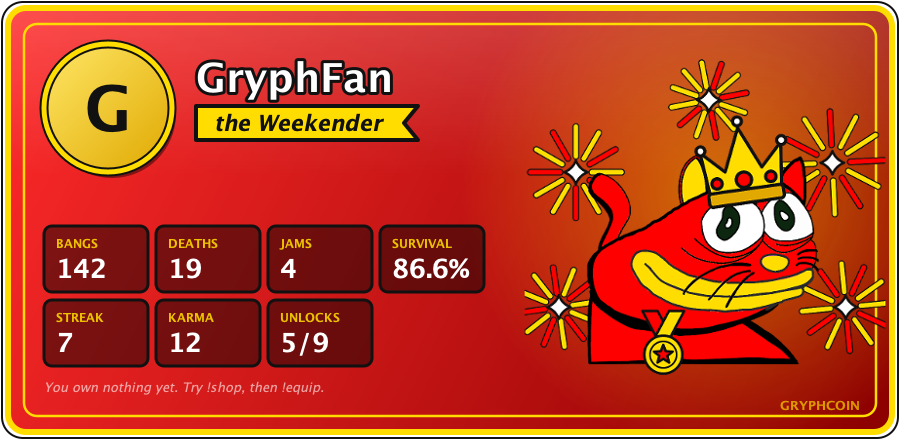
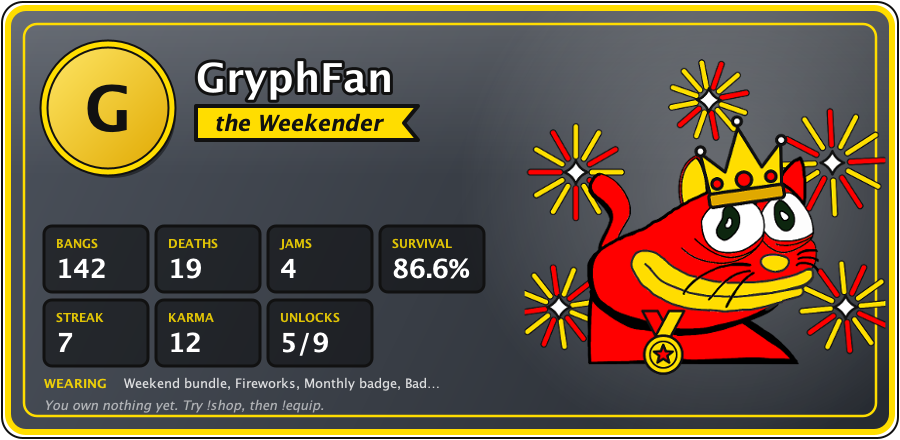
Neutral profile card, wearing line; remove all loss caps
Profile card: neutral slate background, no GRYPHCOIN tag, a WEARING line
naming equipped items, and stat values that shrink to fit so survival
no longer clips.

Games: remove the 24 hour loss limit and the per-game stake caps
(blackjack, dice, higher or lower, duels). Blackjack now warns when a
stake is more than half the player's balance. Paid play opt-out stays.
Update help, testing guide and PR screenshots.

diff --git a/src/command/util/misc/ProfileCard.java b/src/command/util/misc/ProfileCard.java
@@ -22,7 +22,7 @@ import java.util.ArrayList;
 import java.util.List;
 
 /**
- * Draws the profile card in the server's red and gold. The mascot on the right wears whatever the player has
+ * Draws the profile card on a neutral slate background with gold accents. The mascot on the right wears whatever the player has
  * equipped, so every cosmetic is visible as art. Everything is drawn with shapes and the bundled mascot, so the
  * card looks the same on any machine.
  */
@@ -225,8 +225,8 @@ public final class ProfileCard {
     private static void drawBase(Graphics2D g, Cosmetics.Loadout l, int height) {
         boolean bundle = l.has("bundle-weekend");
         boolean glow = l.has("flair-day");
-        Color top = bundle ? new Color(0xFF2A2A) : new Color(0xA30000);
-        Color bottom = bundle ? new Color(0x8A0000) : new Color(0x2E0000);
+        Color top = bundle ? new Color(0x4C525C) : new Color(0x3A3F47);
+        Color bottom = bundle ? new Color(0x262A30) : new Color(0x14161A);
         Shape card = new RoundRectangle2D.Float(8, 8, WIDTH - 16, height - 16, 36, 36);
 
         g.setPaint(new GradientPaint(0, 0, top, WIDTH, height, bottom));
@@ -236,7 +236,7 @@ public final class ProfileCard {
         g.fillRect(0, 0, WIDTH, height);
         // soft spotlight behind the mascot
         g.setPaint(new java.awt.RadialGradientPaint(720, 190, 260, new float[]{0f, 1f},
-                new Color[]{new Color(255, 221, 0, 120), new Color(255, 221, 0, 0)}));
+                new Color[]{new Color(255, 255, 255, 70), new Color(255, 255, 255, 0)}));
         g.fillRect(440, 0, 460, HEIGHT);
         g.setClip(null);
 
@@ -267,11 +267,20 @@ public final class ProfileCard {
         drawNameBlock(g, s, l, 196);
         drawStats(g, s, 44, 226);
         drawInventory(g, pills, l, 44, HEIGHT - 24);
+        drawWearing(g, l, 44, 388);
+    }
 
+    /** One line naming what the mascot has on, so the art is never a guessing game. */
+    private static void drawWearing(Graphics2D g, Cosmetics.Loadout l, int x, int y) {
+        if (l.codes.isEmpty()) return;
+        List<String> names = new ArrayList<>();
+        for (String code : l.codes) names.add(Cosmetics.label(code));
         g.setFont(new Font("SansSerif", Font.BOLD, 13));
-        g.setColor(new Color(255, 221, 0, 170));
-        String tag = "GRYPHCOIN";
-        g.drawString(tag, WIDTH - 40 - g.getFontMetrics().stringWidth(tag), height - 30);
+        g.setColor(new Color(255, 221, 0, 230));
+        g.drawString("WEARING", x, y);
+        g.setFont(new Font("SansSerif", Font.PLAIN, 13));
+        g.setColor(new Color(255, 255, 255, 210));
+        g.drawString(fit(g, String.join(", ", names), 400 - 80), x + 80, y);
     }
 
     private static void drawAvatar(Graphics2D g, Stats s, int x, int y, int size) {
@@ -378,7 +387,13 @@ public final class ProfileCard {
             g.setFont(new Font("SansSerif", Font.BOLD, 12));
             g.setColor(new Color(255, 221, 0, 220));
             g.drawString(cells[i][0], cx + 12, cy + 22);
-            g.setFont(new Font("SansSerif", Font.BOLD, 26));
+            Font value = new Font("SansSerif", Font.BOLD, 26);
+            g.setFont(value);
+            // shrink until the value fits inside the box, so "100.0%" never clips
+            while (g.getFontMetrics().stringWidth(cells[i][1]) > cellW - 20 && value.getSize() > 12) {
+                value = value.deriveFont((float) value.getSize() - 1);
+                g.setFont(value);
+            }
             g.setColor(Color.WHITE);
             g.drawString(cells[i][1], cx + 12, cy + 52);
         }
@@ -479,7 +494,7 @@ public final class ProfileCard {
         if (pills.isEmpty()) {
             g.setFont(new Font("SansSerif", Font.ITALIC, 13));
             g.setColor(new Color(255, 255, 255, 150));
-            g.drawString("You own nothing yet. Try !shop, then !equip.", x, HEIGHT - 48);
+            g.drawString("You own nothing yet. Try !shop, then !equip.", x, HEIGHT - 30);
             return;
         }
         g.setFont(new Font("SansSerif", Font.BOLD, 13));

diff --git a/src/economy/WagerLimits.java b/src/economy/WagerLimits.java
@@ -7,15 +7,10 @@ import java.sql.ResultSet;
 import java.sql.SQLException;
 
 /**
- * Responsible-play guards shared by every paid game: a per-account opt-out and
- * a cap on how much a player can lose in a rolling 24 hours.
+ * Responsible-play guards shared by every paid game: a per-account opt-out.
+ * There is no cap on losses; the games warn about large stakes instead.
  */
 public final class WagerLimits {
-
-    /** Most a player can lose to paid games in 24 hours. */
-    public static final int DAILY_LOSS_CAP = 50;
-
-    private static final long DAY_MS = 24L * 60 * 60 * 1000;
 
     private WagerLimits() { }
 
@@ -43,34 +38,12 @@ public final class WagerLimits {
     }
 
     /**
-     * @return GC lost to paid games in the last 24 hours
-     */
-    public static int lossesToday(long user) throws SQLException {
-        return Database.inTransaction(c -> {
-            try (PreparedStatement ps = c.prepareStatement("SELECT COALESCE(-SUM(delta), 0) FROM economy_ledger "
-                    + "WHERE user = ? AND reason IN ('blackjack', 'duel', 'dice', 'hilo') AND delta < 0 AND created_at >= ?")) {
-                ps.setLong(1, user);
-                ps.setLong(2, System.currentTimeMillis() - DAY_MS);
-                try (ResultSet rs = ps.executeQuery()) {
-                    rs.next();
-                    return rs.getInt(1);
-                }
-            }
-        });
-    }
-
-    /**
      * @return null if the player may stake this amount, otherwise a message
      *         explaining why not
      */
     public static String check(long user, int stake) throws SQLException {
         if (!isPaidPlayEnabled(user)) {
             return "Paid play is turned off for your account. Say `!paidplay on` to turn it back on.";
-        }
-        int lost = lossesToday(user);
-        if (lost + stake > DAILY_LOSS_CAP) {
-            return "That would take you past the " + DAILY_LOSS_CAP + " GC daily loss limit "
-                    + "(you have lost " + lost + " GC in the last 24 hours).";
         }
         return null;
     }

diff --git a/src/command/commands/economy/DuelCommands.java b/src/command/commands/economy/DuelCommands.java
@@ -1,7 +1,6 @@
 package command.commands.economy;
 
 import command.Command;
-import command.commands.blackjack.Bet;
 import duel.Duel;
 import duel.DuelMath;
 import duel.DuelService;
@@ -53,8 +52,7 @@ public final class DuelCommands {
         public void start(MessageReceivedEvent event) {
             String[] args = event.getMessage().getContentRaw().split("\\s+");
             if (event.getMessage().getMentions().getUsers().size() != 1 || args.length < 2 || args.length > 3) {
-                event.getChannel().sendMessage("Say `!duel @user [stake]`. Stake 0-" + Bet.MAX_STAKE
-                        + " GC; leave it off to play free. Winner takes the pot (1 GC fee from 5 GC stakes up).")
+                event.getChannel().sendMessage("Say `!duel @user [stake]`. Stake in GC; leave it off to play free. Winner takes the pot (1 GC fee from 5 GC stakes up).")
                         .queue();
                 return;
             }
@@ -65,8 +63,8 @@ public final class DuelCommands {
                 event.getChannel().sendMessage("The stake must be a whole number.").queue();
                 return;
             }
-            if (stake < 0 || stake > Bet.MAX_STAKE) {
-                event.getChannel().sendMessage("Stakes run from 0 to " + Bet.MAX_STAKE + " GC.").queue();
+            if (stake < 0) {
+                event.getChannel().sendMessage("The stake cannot be negative.").queue();
                 return;
             }
             net.dv8tion.jda.api.entities.User target = event.getMessage().getMentions().getUsers().get(0);

diff --git a/src/command/commands/blackjack/Bet.java b/src/command/commands/blackjack/Bet.java
@@ -19,8 +19,8 @@ import java.util.Collections;
 
 public class Bet extends Command {
 
-    /** Largest blackjack stake allowed. */
-    public static final int MAX_STAKE = 10;
+    /** Stakes above this share of the player's balance get a warning. */
+    static final double WARN_FRACTION = 0.5;
 
     private EconomyConnector ec;
 
@@ -64,6 +64,11 @@ public class Bet extends Command {
             if (blocked != null) {
                 channel.sendMessage(blocked).queue();
                 return;
+            }
+            int spendable = ec.getSpendable(userId);
+            if (betAmount > spendable * WARN_FRACTION && betAmount <= spendable) {
+                channel.sendMessage("\u26A0 Heads up: that is " + Math.round(100.0 * betAmount / spendable)
+                        + "% of your " + spendable + " GC balance. You can lose all of it.").queue();
             }
             channel.sendMessage("Stake: " + betAmount + " GC reserved. Maximum loss: " + betAmount
                     + " GC. Blackjack pays 3:2, a push returns your stake.").queue();
@@ -163,11 +168,6 @@ public class Bet extends Command {
             return false;
         }
 
-        // Stakes are capped at launch
-        if (betAmount > MAX_STAKE) {
-            channel.sendMessage("The maximum stake is " + MAX_STAKE + " GryphCoins.").queue();
-            return false;
-        }
         return true;
     }
 }

diff --git a/src/command/commands/economy/HiLo.java b/src/command/commands/economy/HiLo.java
@@ -1,7 +1,6 @@
 package command.commands.economy;
 
 import command.Command;
-import command.commands.blackjack.Bet;
 import command.util.cards.DeckOfCards;
 import command.util.game.HiLoGame;
 import database.Database;
@@ -37,9 +36,8 @@ public class HiLo extends Command {
         String[] args = event.getMessage().getContentRaw().split("\\s+");
         try {
             int stake = args.length == 2 ? Integer.parseInt(args[1]) : 0;
-            if (stake < 1 || stake > Bet.MAX_STAKE) {
-                event.getChannel().sendMessage("Say `!hilo <stake>` with a stake of 1 to " + Bet.MAX_STAKE
-                        + " GC. Guess `!higher` or `!lower` (ace high, a tie loses). One correct guess pays "
+            if (stake < 1) {
+                event.getChannel().sendMessage("Say `!hilo <stake>` with a stake of at least 1 GC. Guess `!higher` or `!lower` (ace high, a tie loses). One correct guess pays "
                         + "1x your stake and you may `!cashout`; two in a row pay 2x. A wrong guess forfeits the "
                         + "stake.").queue();
                 return;

diff --git a/src/command/commands/economy/Dice.java b/src/command/commands/economy/Dice.java
@@ -1,7 +1,6 @@
 package command.commands.economy;
 
 import command.Command;
-import command.commands.blackjack.Bet;
 import command.util.game.DiceGame;
 import database.Database;
 import economy.EconomyService;
@@ -42,8 +41,8 @@ public class Dice extends Command {
         try {
             if (args.length == 3) {
                 stake = Integer.parseInt(args[2]);
-                if (stake < 1 || stake > Bet.MAX_STAKE) {
-                    event.getChannel().sendMessage("Stakes run from 1 to " + Bet.MAX_STAKE + " GC.").queue();
+                if (stake < 1) {
+                    event.getChannel().sendMessage("The stake must be at least 1 GC.").queue();
                     return;
                 }
                 String blocked = WagerLimits.check(event.getAuthor().getIdLong(), stake);

diff --git a/test/integration/EconomyIntegrationTest.java b/test/integration/EconomyIntegrationTest.java
@@ -208,18 +208,11 @@ public class EconomyIntegrationTest extends DbTestBase {
     }
 
     @Test
-    public void wagerLimitsBlockOptOutAndLossCap() throws Exception {
+    public void wagerLimitsBlockOptOut() throws Exception {
         long u = newUser();
         assertNull(WagerLimits.check(u, 5));
         WagerLimits.setPaidPlay(u, false);
         assertNotNull(WagerLimits.check(u, 5));
         WagerLimits.setPaidPlay(u, true);
-        eco.credit(u, 100, "t", null, "c-" + u);
-        for (int i = 0; i < 5; i++) {
-            eco.reserve(u, 10, "blackjack", null, "r" + i + "-" + u);
-            eco.settleReservation("r" + i + "-" + u, -10, "blackjack");
-        }
-        assertEquals(50, WagerLimits.lossesToday(u));
-        assertNotNull(WagerLimits.check(u, 1));
     }
 }

diff --git a/src/command/commands/Help.java b/src/command/commands/Help.java
@@ -32,7 +32,7 @@ public class Help extends Command {
     public enum Category {
         OVERVIEW("overview", "📖", "Overview", "Start here", new Color(0xF5C542)),
         GAMES("games", "🎲", "Games", "Risk a few coins, or play free", new Color(0xE0457B),
-                new Entry("!bet <1-10>", "Blackjack. Pays 3:2, a tie returns your stake"),
+                new Entry("!bet <amount>", "Blackjack. Pays 3:2, a tie returns your stake"),
                 new Entry("!hit  !stand  !myhand", "Play your blackjack hand"),
                 new Entry("!dice <low|high|seven> [stake]", "Two dice. Leave the stake off to play free"),
                 new Entry("!hilo <stake>", "Higher or Lower. Then !higher, !lower or !cashout"),

diff --git a/src/command/commands/economy/PaidPlay.java b/src/command/commands/economy/PaidPlay.java
@@ -28,8 +28,7 @@ public class PaidPlay extends Command {
                 event.getChannel().sendMessage("Paid play is now **off**. Free play still works.").queue();
             } else if (args.length == 2 && args[1].equalsIgnoreCase("on")) {
                 WagerLimits.setPaidPlay(user, true);
-                event.getChannel().sendMessage("Paid play is now **on**. Daily loss limit: "
-                        + WagerLimits.DAILY_LOSS_CAP + " GC.").queue();
+                event.getChannel().sendMessage("Paid play is now **on**.").queue();
             } else {
                 event.getChannel().sendMessage("Paid play is "
                         + (WagerLimits.isPaidPlayEnabled(user) ? "on" : "off")

diff --git a/src/command/ui/SlashCommands.java b/src/command/ui/SlashCommands.java
@@ -51,7 +51,7 @@ public final class SlashCommands {
     // --- definitions ---------------------------------------------------------------------------------------
 
     private static void build() {
-        int maxStake = command.commands.blackjack.Bet.MAX_STAKE;
+        int maxStake = 1000000;
         String[] letters = {"A", "B", "C", "D", "E", "F"};
 
         // Everyone, no options

diff --git a/dev/TESTING.md b/dev/TESTING.md
@@ -47,7 +47,7 @@ Use two accounts (your own and an alt, or a friend) for the social flows.
 | Gift wrap | `!gift @alt 2 wrap happy birthday` | Alt gets 2, you pay 5, card embed |
 | Daily | `!bang` then `!daily` | 5 GC once; second claim shows the next time |
 | Blackjack | `!bet 5`, then `!wallet` mid-hand | 5 GC shows as reserved. `!hit`/`!stand` settle once |
-| Blackjack limits | `!bet 11`, `!paidplay off` then `!bet 1` | Refused with a reason |
+| Blackjack stakes | `!bet 3` with a 5 GC balance; `!paidplay off` then `!bet 1` | A stake over half your balance shows a warning but still plays (no cap). With paid play off it is refused |
 | Blackjack restart | Start a hand, stop the bot, start it again, `!myhand` | Hand is still there; leave it 2 min and it auto-stands |
 | Dice, hilo | `!dice high`, `!dice seven 2`, `!hilo 2`, `!higher`, `!cashout` | Free play works; stakes reserved/settled |
 | Arcade | `!arcade`, `!answer b`, again, `!arcadescores` | First round pays daily; repeats are free |
@@ -61,7 +61,7 @@ Use two accounts (your own and an alt, or a friend) for the social flows.
 | Event | `!event start night` (admin), `!event confirm @alt`, `!event end` | Alt gets 5 GC (and the weekly bonus) |
 | Boards | `!board arcade`, `!bangweek`, `!optout on` | Opted-out accounts disappear; `!bangweek` also shows best streaks |
 | Achievements | `!achievements` after your first correct arcade answer | One item ticked; `!board collection` counts it |
-| Profile card | `!profile` before and after `!equip` | A picture card; titles, badges, banners and effects change how it looks |
+| Profile card | `!profile` before and after `!equip` | A picture card on a neutral slate background; titles, badges, banners and effects change how it looks. A "WEARING" line names what the mascot has on, and survival never clips (try 100.0%) |
 | Emoji art | `sh gradlew exportArt`, then upload `art-out/*_128.png` as server emoji | 14 mascot variants in the server colours |
 | Alumni | `!alumni grant @alt thanks for everything` (mod), then `!profile` as the alt, `!alumni list` | Gold ribbon, cap and diploma on the card, 🎓 next to their name everywhere |
 | Equip | `!shop buy title-week`, `!equip title-week`, `!profile`, `!arcadescores` | Title after your name, badge under "Equipped" |
